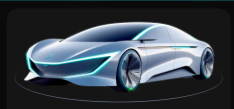
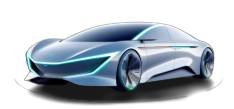
Updates

diff --git a/utils/styling.py b/utils/styling.py
@@ -14,7 +14,7 @@ CUSTOM_CSS = """
 <style>
     .block-container {padding-top: 1rem; padding-bottom: 0.5rem;}
     [data-testid="stSidebar"] {
-        background-color: #161B22;
+        background-color: #232A3B;
         min-width: 14rem !important;
         width: clamp(14rem, 18vw, 22rem) !important;
     }
@@ -22,7 +22,7 @@ CUSTOM_CSS = """
 
     /* KPI Cards — responsive */
     [data-testid="stMetric"] {
-        background: linear-gradient(135deg, #161B22 0%, #1A2332 100%);
+        background: linear-gradient(135deg, #232A3B 0%, #2A3347 100%);
         border: 1px solid #29B5E8;
         border-radius: 0.625rem;
         padding: 0.875rem 1.125rem;
@@ -39,7 +39,7 @@ CUSTOM_CSS = """
 
     /* Tabs */
     .stTabs [data-baseweb="tab-list"] {gap: 4px;}
-    .stTabs [data-baseweb="tab"] {background-color: #161B22; border-radius: 6px 6px 0 0; padding: 0.5rem 1rem;}
+    .stTabs [data-baseweb="tab"] {background-color: #232A3B; border-radius: 6px 6px 0 0; padding: 0.5rem 1rem;}
 
     /* Status badges — em-based so they scale with parent font */
     .badge-healthy {background:#065F46; color:#34D399; padding:0.2em 0.7em; border-radius:0.75em; font-size:0.8em; font-weight:600;}
@@ -60,7 +60,7 @@ CUSTOM_CSS = """
         .kpi-grid.cols-4, .kpi-grid.cols-5 { grid-template-columns: repeat(2, 1fr); }
     }
     .kpi-v2 {
-        background: linear-gradient(135deg, #161B22 0%, #1A2332 100%);
+        background: linear-gradient(135deg, #232A3B 0%, #2A3347 100%);
         border: 1px solid rgba(41,181,232,0.15);
         border-radius: 0.75rem;
         padding: 1.1rem 1.25rem 0.9rem;
@@ -98,7 +98,7 @@ CUSTOM_CSS = """
     }
     .kpi-v2 .kpi-v2-badge.up   { background: #065F46; color: #34D399; }
     .kpi-v2 .kpi-v2-badge.down { background: #7F1D1D; color: #F87171; }
-    .kpi-v2 .kpi-v2-badge.flat { background: #1F2937; color: #8B949E; }
+    .kpi-v2 .kpi-v2-badge.flat { background: #2D3548; color: #8B949E; }
     .kpi-v2 .kpi-v2-sub {
         font-size: 0.75rem; color: #6E7681; margin-top: 0.25rem;
     }
@@ -106,7 +106,7 @@ CUSTOM_CSS = """
     /* ── Page header bar ── */
     .page-header-bar {
         display: flex; align-items: center; justify-content: space-between;
-        background: linear-gradient(135deg, #0D1117 0%, #101820 100%);
+        background: linear-gradient(135deg, #1E2535 0%, #232D40 100%);
         border: 1px solid rgba(41,181,232,0.12);
         border-radius: 0.75rem;
         padding: 0.9rem 1.5rem;
@@ -169,7 +169,7 @@ CUSTOM_CSS = """
 
     /* ── Sidebar brand card ── */
     .sidebar-brand {
-        background: linear-gradient(135deg, #0D1117 0%, #101820 100%);
+        background: linear-gradient(135deg, #1E2535 0%, #232D40 100%);
         border: 1px solid rgba(41,181,232,0.35);
         border-radius: 0.6rem;
         padding: 0.7rem 0.85rem;
@@ -191,7 +191,7 @@ CUSTOM_CSS = """
     }
     /* ── Sidebar user profile card ── */
     .sidebar-profile {
-        background: linear-gradient(135deg, #0D1117 0%, #101820 100%);
+        background: linear-gradient(135deg, #1E2535 0%, #232D40 100%);
         border: 1px solid rgba(41,181,232,0.2);
         border-radius: 0.6rem;
         padding: 0.6rem 0.75rem;
@@ -232,7 +232,7 @@ CUSTOM_CSS = """
         display: flex !important;
         align-items: center !important;
         justify-content: center !important;
-        background: radial-gradient(ellipse at center, rgba(10,15,30,0.95) 0%, rgba(10,15,30,0.98) 100%);
+        background: radial-gradient(ellipse at center, rgba(26,31,46,0.96) 0%, rgba(26,31,46,0.98) 100%);
         animation: splash-dismiss 3.5s ease-in-out forwards;
     }
     @keyframes splash-dismiss {
@@ -262,6 +262,16 @@ CUSTOM_CSS = """
     @keyframes pulse-text {
         0%, 100% { opacity: 0.4; }
         50%      { opacity: 1; }
+    }
+
+    /* Chat avatars — prevent circular crop so full image is visible */
+    [data-testid="stChatMessage"] [data-testid="stChatMessageAvatarCustom"] {
+        border-radius: 0.375rem !important;
+        overflow: visible !important;
+    }
+    [data-testid="stChatMessage"] [data-testid="stChatMessageAvatarCustom"] img {
+        border-radius: 0.375rem !important;
+        object-fit: contain !important;
     }
 </style>
 """
@@ -399,7 +409,7 @@ COLORS = {
     "accent2": "#F472B6",
     "accent3": "#FB923C",
     "accent4": "#38BDF8",
-    "bg_card": "#161B22",
+    "bg_card": "#232A3B",
     "text_dim": "#8B949E",
 }
 

diff --git a/app.py b/app.py
@@ -13,7 +13,7 @@ render_sidebar_nav()
 st.markdown("""
 <style>
     .hero-banner {
-        background: linear-gradient(135deg, #0D1117 0%, #101820 40%, #0a1628 100%);
+        background: linear-gradient(135deg, #1E2535 0%, #232D40 40%, #1c2844 100%);
         border: 1px solid rgba(41,181,232,0.15);
         border-radius: 1rem;
         padding: 2rem 2.5rem;
@@ -59,7 +59,7 @@ st.markdown("""
     .kpi-row { display: flex; gap: 1rem; margin-bottom: 1.5rem; flex-wrap: wrap; }
     .kpi-card {
         flex: 1; min-width: 140px;
-        background: linear-gradient(135deg, #161B22 0%, #1A2332 100%);
+        background: linear-gradient(135deg, #232A3B 0%, #2A3347 100%);
         border: 1px solid rgba(41,181,232,0.2);
         border-radius: 0.75rem;
         padding: 1rem 1.2rem;
@@ -98,7 +98,7 @@ st.markdown("""
         font-weight: 700; margin-bottom: 0.75rem; margin-top: 0.5rem;
     }
     .insight-box {
-        background: linear-gradient(135deg, #0d1f2d 0%, #162033 100%);
+        background: linear-gradient(135deg, #1E2B3D 0%, #253248 100%);
         border: 1px solid rgba(41,181,232,0.25);
         border-left: 4px solid #29B5E8;
         border-radius: 0.75rem;
@@ -114,7 +114,7 @@ st.markdown("""
         font-size: 0.9rem; color: #C9D1D9; line-height: 1.6;
     }
     .nav-card {
-        background: linear-gradient(135deg, #161B22 0%, #1A2332 100%);
+        background: linear-gradient(135deg, #232A3B 0%, #2A3347 100%);
         border: 1px solid rgba(41,181,232,0.18);
         border-radius: 0.75rem;
         padding: 1.1rem 1rem 0.9rem 1rem;
@@ -250,7 +250,7 @@ if data_loaded:
     critical = bucket_map.get('CRITICAL', 0)
 
     st.markdown(f"""
-    <div style="background: linear-gradient(135deg, #161B22, #1A2332); border: 1px solid rgba(41,181,232,0.12);
+    <div style="background: linear-gradient(135deg, #232A3B, #2A3347); border: 1px solid rgba(41,181,232,0.12);
                 border-radius: 0.75rem; padding: 1rem 1.5rem; margin-bottom: 1.5rem;">
         <div style="display:flex; justify-content:space-between; align-items:center; flex-wrap:wrap; gap:1rem;">
             <div class="fleet-status">

diff --git a/pages/07_AutoDoctor_Copilot.py b/pages/07_AutoDoctor_Copilot.py
@@ -362,22 +362,12 @@ if "messages" not in st.session_state:
 if "pending_prompt" not in st.session_state:
     st.session_state.pending_prompt = None
 
-# Action bar (Attach / Chat History)
-ab1, ab2, ab_spacer = st.columns([1, 1, 4])
-with ab1:
-    st.button("📎 Attach Document", disabled=True, help="Document upload coming soon")
-with ab2:
-    if st.button("📜 View Chat History"):
-        if st.session_state.messages:
-            with st.expander("Chat History", expanded=True):
-                for m in st.session_state.messages:
-                    role_lbl = "You" if m["role"] == "user" else "AutoDoctor"
-                    st.markdown(f"**{role_lbl}:** {m['content'][:200]}{'...' if len(m['content']) > 200 else ''}")
-        else:
-            st.info("No chat history yet.")
+
+_USER_AVATAR = "assets/person.png"
+_BOT_AVATAR = "assets/car2.png"
 
 for msg in st.session_state.messages:
-    with st.chat_message(msg["role"]):
+    with st.chat_message(msg["role"], avatar=_USER_AVATAR if msg["role"] == "user" else _BOT_AVATAR):
         st.markdown(msg["content"])
 
 # Suggested questions
@@ -408,10 +398,10 @@ if prompt is None and st.session_state.pending_prompt is not None:
 
 if prompt:
     st.session_state.messages.append({"role": "user", "content": prompt})
-    with st.chat_message("user"):
+    with st.chat_message("user", avatar=_USER_AVATAR):
         st.markdown(prompt)
 
-    with st.chat_message("assistant"):
+    with st.chat_message("assistant", avatar=_BOT_AVATAR):
         loader = st.empty()
         result_holder = {}
 
